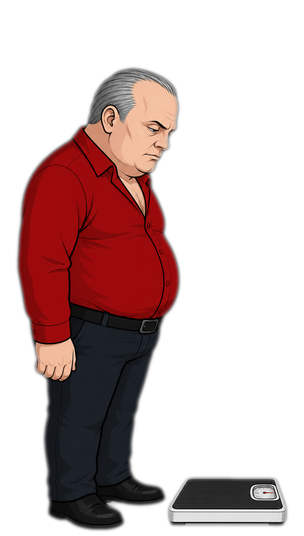
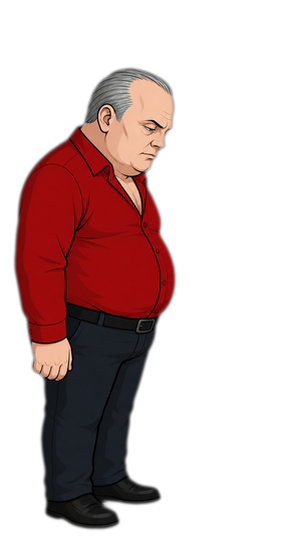
Corrige le service Vladou et sa pose de défaite.
Balle ancrée sur receive_0 (offsets par perso) ; balance retirée de defeat_0.

diff --git a/src/physics.js b/src/physics.js
@@ -264,9 +264,18 @@ function serverBlob() {
 }
 
 function serveHandsPos(blob) {
-  // Devant le perso (bras tendus de la pose receive), un peu écarté du corps
+  // Ancré sur la pose receive_0 du perso (manifest.serveHands), face adversaire.
   const face = blob.side === 0 ? 1 : -1;
-  return { x: blob.x + face * 28, y: blob.y - 48 };
+  let dx = 28, dy = -48;
+  if (typeof charOf === "function" && typeof charPack === "function") {
+    const pack = charPack(charOf(blob).key);
+    const sh = pack && pack.manifest && pack.manifest.serveHands;
+    if (sh) {
+      if (sh.dx != null) dx = +sh.dx;
+      if (sh.dy != null) dy = +sh.dy;
+    }
+  }
+  return { x: blob.x + face * dx, y: blob.y + dy };
 }
 
 function attachBallToServerHands() {

diff --git a/src/char-sprites.js b/src/char-sprites.js
@@ -171,6 +171,10 @@ function charPickFrame(b, anim) {
     // celebT avance pendant point/fin (tick de simu est figé)
     const ct = typeof celebT === "number" ? celebT : (tick || 0);
     idx = Math.floor(ct / 28) % frames.length;
+  } else if (anim === "receive" && typeof ball !== "undefined" &&
+             ball.inHands && ball.frozen) {
+    // Service : pose stable (sinon receive_0/1 alterne et la balle décroche)
+    idx = 0;
   } else if (frames.length > 1) {
     idx = Math.floor((tick || 0) / 20) % frames.length;
   }
